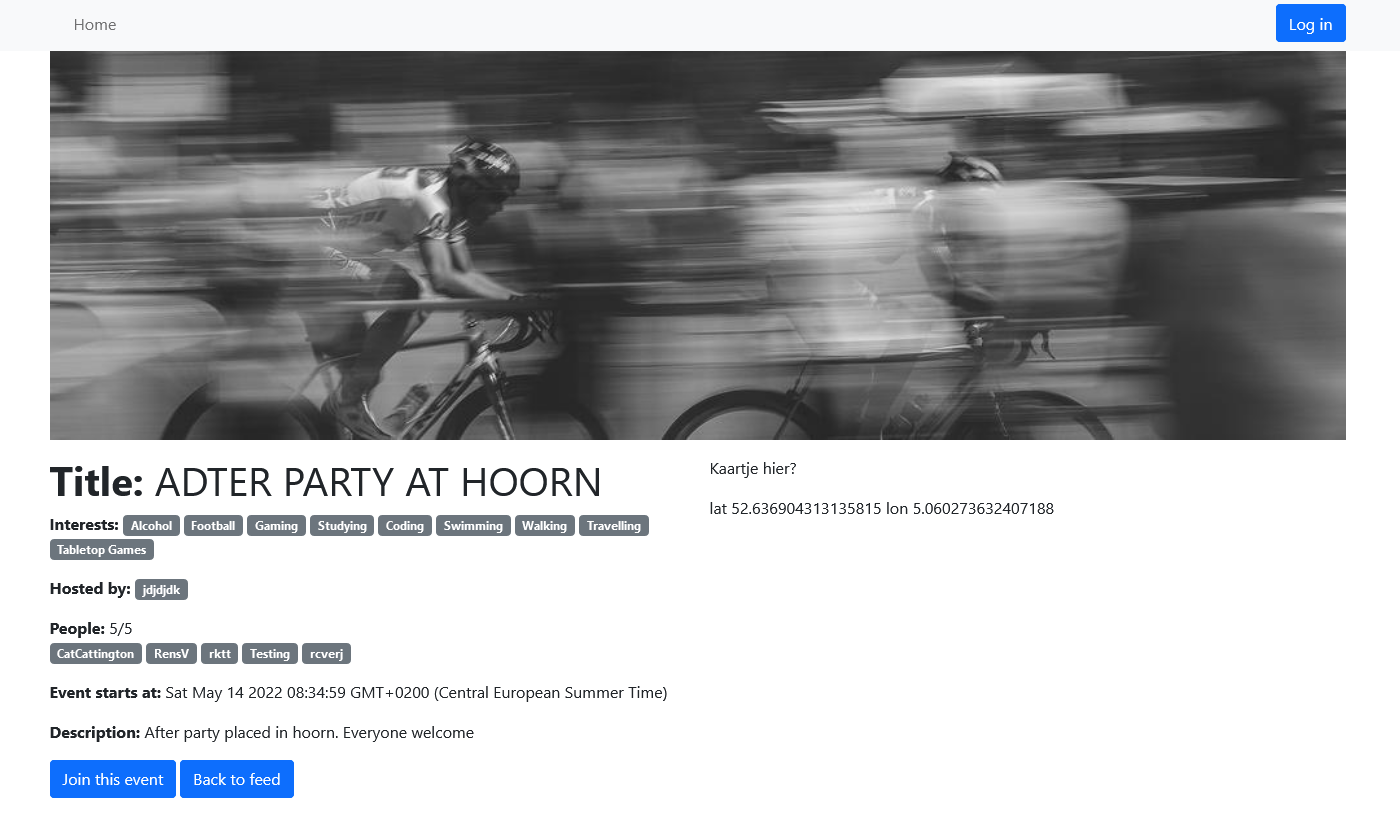
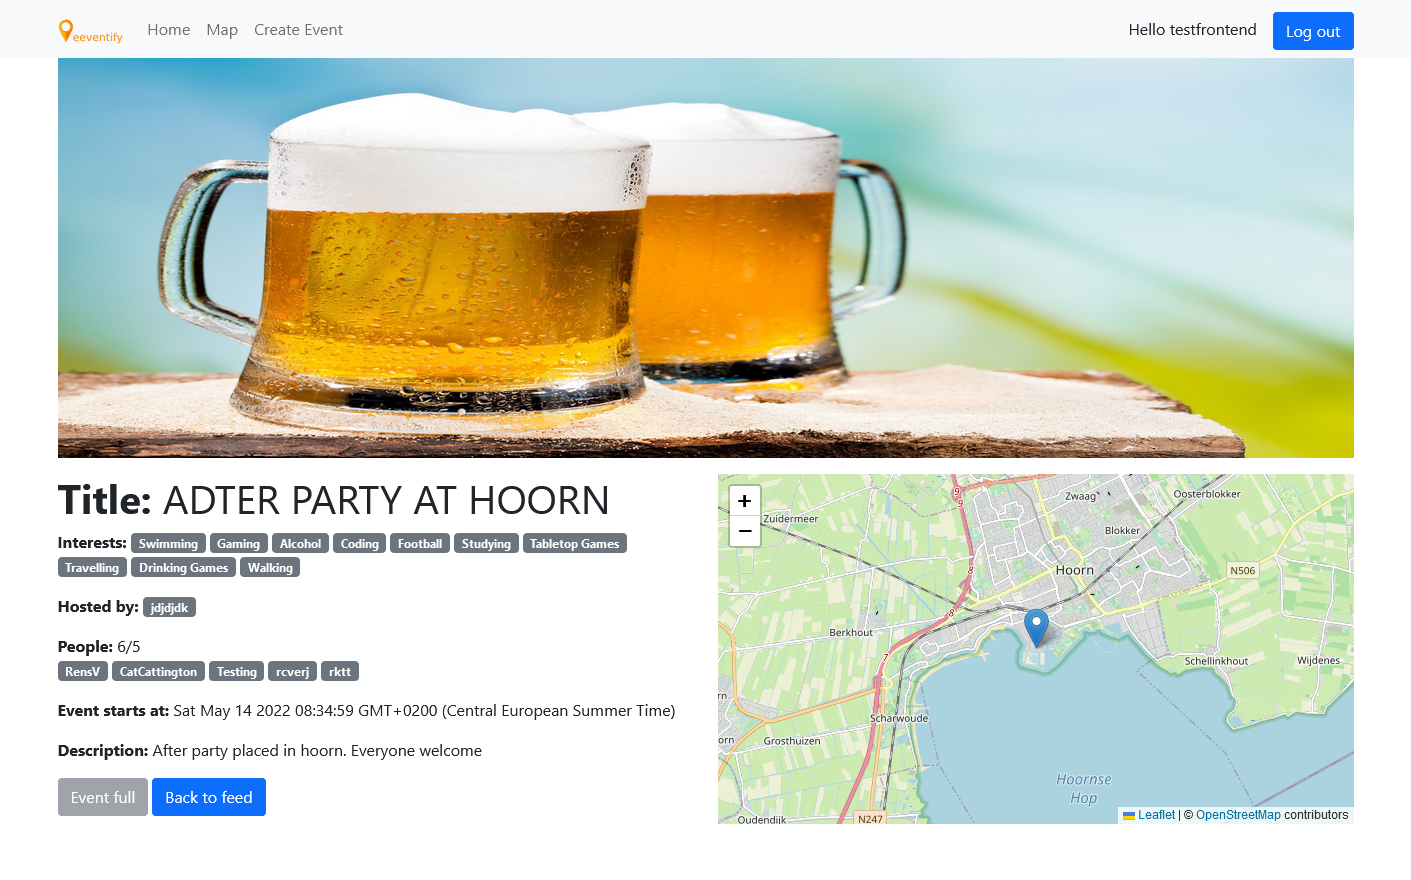
Animation eeventify front end

diff --git a/README.md b/README.md
@@ -5,8 +5,8 @@ Written by: Jeffrey E.G. Derksen
 For course: S-DB-IPS3 and S-DB-GPS3  
 Class: S3-DB01  
 Coaches: Bert Aarts, Samuil Angelov, Leon van Bokhorst, Timo Hermans, and Jean Paul Ligthart  
-Date: 19 June 2022  
-Version: 4  
+Date: 24 June 2022  
+Version: 5  
 
 Portfolio for semester 3 of the bachelor's program of IT from Fontys University of Applied Sciences.
 
@@ -194,11 +194,8 @@ We have made use of the SCRUM framework while working on this project and chose 
 
 Some of the components of Eeventify that I have worked on are the *event feed* and *event detail* pages. These were written in JavaScript and developed with the React library. We decided, as a group, to use this particular combination for the Eeventify front end, because each one of us was already working with these technologies for their individual project as well.
 
-![Screenshot of Eeventify event feed page.](images/eeventify_overview.png)  
-*Eeventify event feed.*
-
-![Screenshot of Eeventify event detail page.](images/eeventify_detail.png)  
-*Eeventify event detail page.*
+![Animation showing Eeventify front end.](images/eeventify_frontend.gif)  
+*Eeventify front end.*
 
 [📁 Eeventify repositories](https://github.com/orgs/Eeventify/repositories)
 
